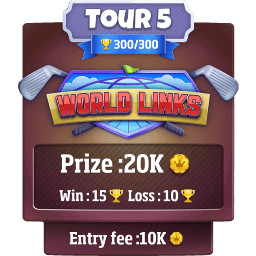
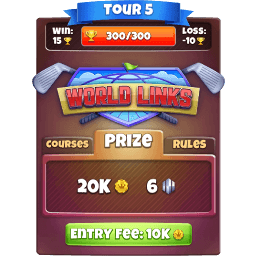
Update tour information.

diff --git a/modules/site/src/main/resources/microsite/css/gcn-tours.scss b/modules/site/src/main/resources/microsite/css/gcn-tours.scss
@@ -2,6 +2,18 @@
   margin-top: 5px;
 }
 
+.tour-banner {
+  width: 300px;
+  margin-top: 32px;
+  margin-bottom: 32px;
+}
+
+.tour-rule-image {
+  width: 32px;
+  height: 32px;
+  margin-bottom: 4px;
+}
+
 .btn-tour-pagination {
   padding: 4px 24px;
   color: #aaa;
